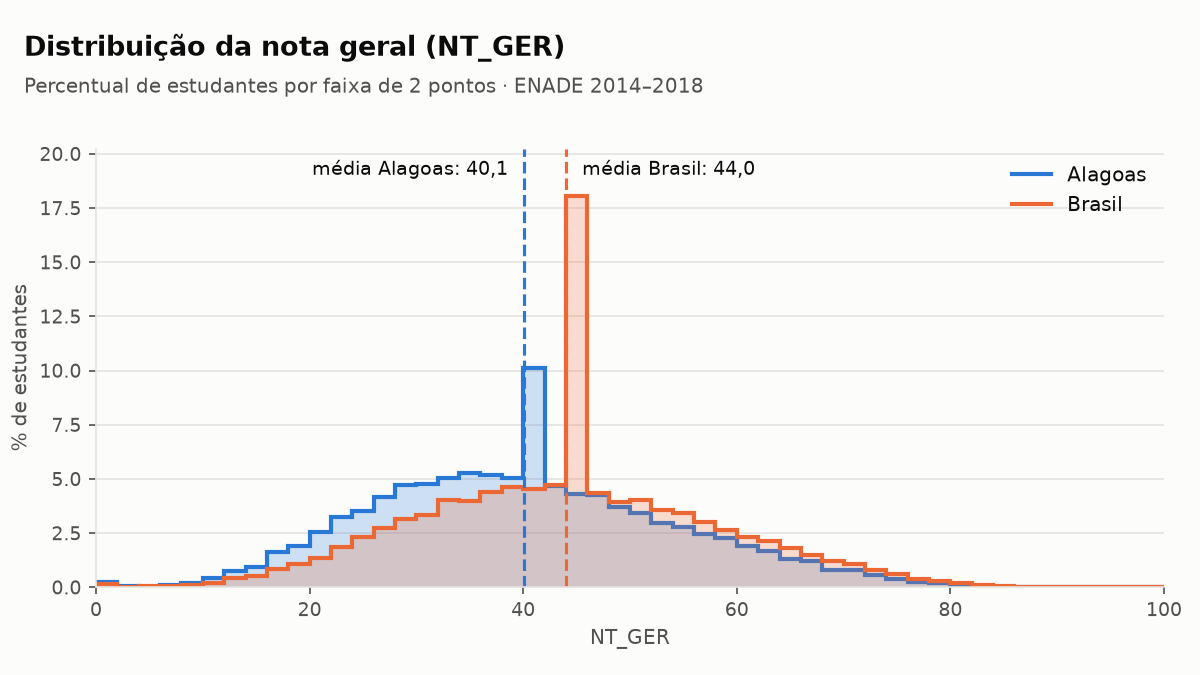
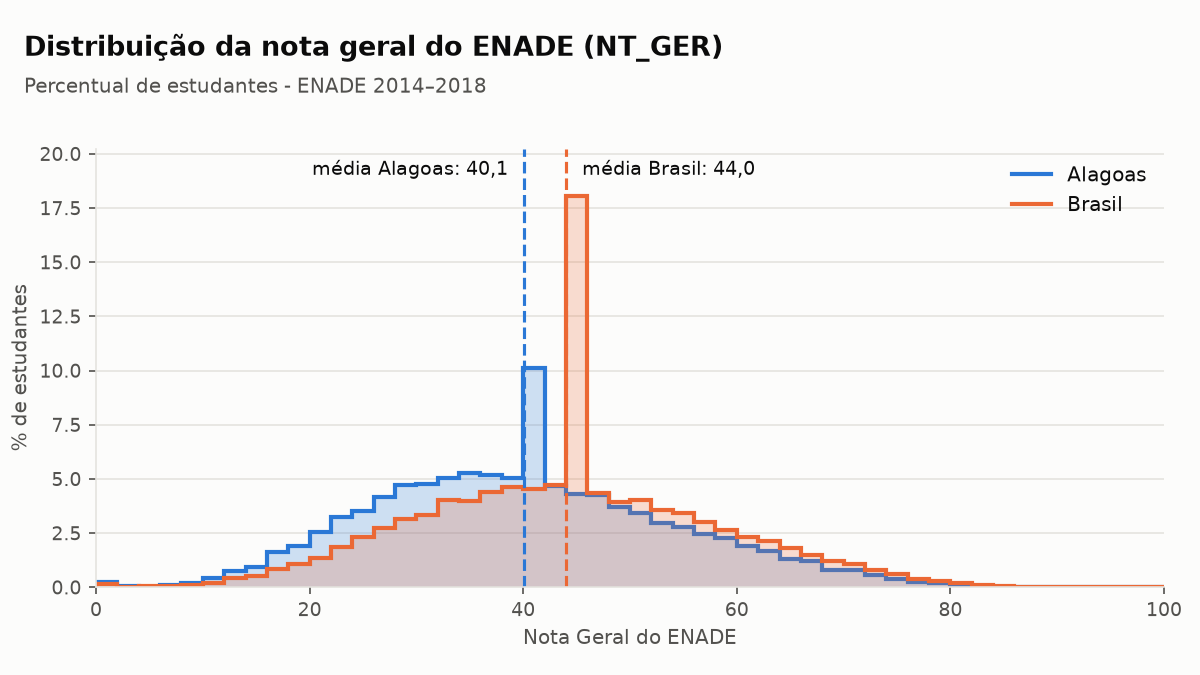
Update figures.

Changed region(s): [[0.2158, 0.0311, 0.6167, 0.1556], [0.4317, 0.9333, 0.6167, 0.9644]]

diff --git a/src/analysis/animations.py b/src/analysis/animations.py
@@ -173,11 +173,11 @@ def animate_target_distribution(tables_dir: Path = EXPERIMENTS_TABLES_DIR,
 
     fig, ax = _new_figure()
     fig.subplots_adjust(left=0.08, right=0.97, top=0.78, bottom=0.13)
-    _title(fig, "Distribuição da nota geral (NT_GER)",
-           "Percentual de estudantes por faixa de 2 pontos · ENADE 2014–2018")
+    _title(fig, "Distribuição da nota geral do ENADE (NT_GER)",
+           "Percentual de estudantes - ENADE 2014–2018")
     ax.set_xlim(0, 100)
     ax.set_ylim(0, y_max)
-    ax.set_xlabel("NT_GER", color=TEXT_SECONDARY, fontsize=9.5)
+    ax.set_xlabel("Nota Geral do ENADE", color=TEXT_SECONDARY, fontsize=9.5)
     ax.set_ylabel("% de estudantes", color=TEXT_SECONDARY, fontsize=9.5)
     ax.grid(axis="x", visible=False)
 
@@ -240,12 +240,12 @@ def animate_model_comparison(tables_dir: Path = EXPERIMENTS_TABLES_DIR,
     fig, ax = _new_figure()
     fig.subplots_adjust(left=0.22, right=0.95, top=0.78, bottom=0.13)
     _title(fig, "Desempenho dos modelos de regressão",
-           "R² médio na validação cruzada (10 folds) · barras de erro = desvio-padrão")
+           "R² médio e barras de erro (desvio-padrão)")
 
     x_max = max(m["cv_r2_mean"].max() + m["cv_r2_std"].max()
                 for m in metrics.values()) * 1.18
     ax.set_xlim(0, x_max)
-    ax.set_xlabel("R² (validação cruzada)", color=TEXT_SECONDARY, fontsize=9.5)
+    ax.set_xlabel("R²", color=TEXT_SECONDARY, fontsize=9.5)
     ax.xaxis.set_major_formatter(
         plt.FuncFormatter(lambda v, _: f"{v:.3f}".replace(".", ",")))
     ax.grid(axis="y", visible=False)
@@ -327,8 +327,8 @@ def animate_question_importance(tables_dir: Path = EXPERIMENTS_TABLES_DIR,
 
     fig, ax = _new_figure()
     fig.subplots_adjust(left=0.33, right=0.95, top=0.78, bottom=0.13)
-    _title(fig, f"Questões mais importantes · {MODEL_LABELS.get(model, model)}",
-           "Importância agregada das categorias de cada questão (% do total)")
+    _title(fig, f"Fatores socioeconômicos que mais impactaram no {MODEL_LABELS.get(model, model)}",
+           f"Impacto de cada fator socioeconômico na obtenção da nota do unade usando {MODEL_LABELS.get(model, model)} (em %)")
     x_max = union.to_numpy().max() * 1.2
     ax.set_xlim(0, x_max)
     ax.set_ylim(top_n - 0.4, -0.6)
@@ -390,8 +390,8 @@ def _static_question_importance(union: pd.DataFrame, model: str) -> plt.Figure:
     data = union.loc[union.max(axis=1).sort_values().index]
     fig, ax = _new_figure()
     fig.subplots_adjust(left=0.33, right=0.95, top=0.78, bottom=0.13)
-    _title(fig, f"Questões mais importantes · {MODEL_LABELS.get(model, model)}",
-           "Importância agregada das categorias de cada questão (% do total)")
+    _title(fig, f"Fatores socioeconômicos que mais impactaram no {MODEL_LABELS.get(model, model)}",
+           f"Impacto de cada fator socioeconômico na obtenção da nota do unade usando {MODEL_LABELS.get(model, model)} (em %)")
     positions = np.arange(len(data))
     height = 0.36
     x_max = data.to_numpy().max() * 1.15
